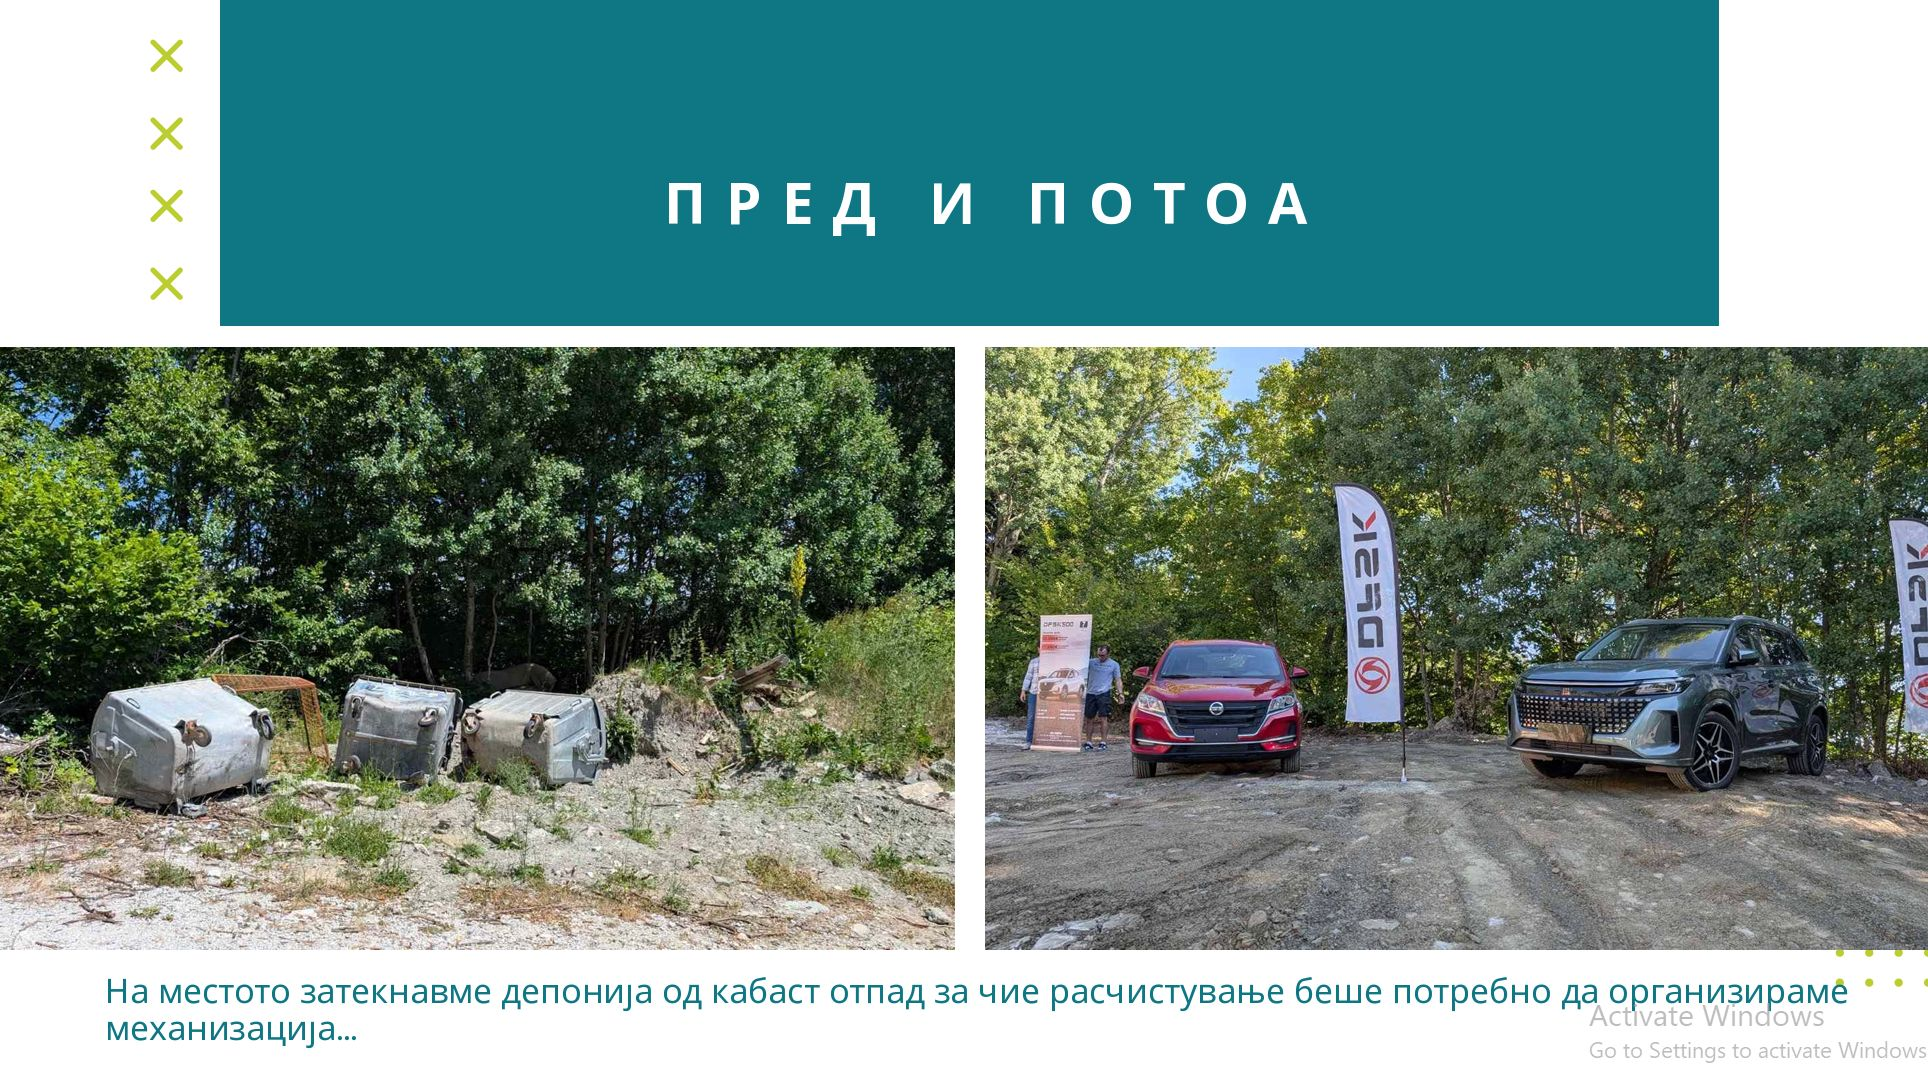
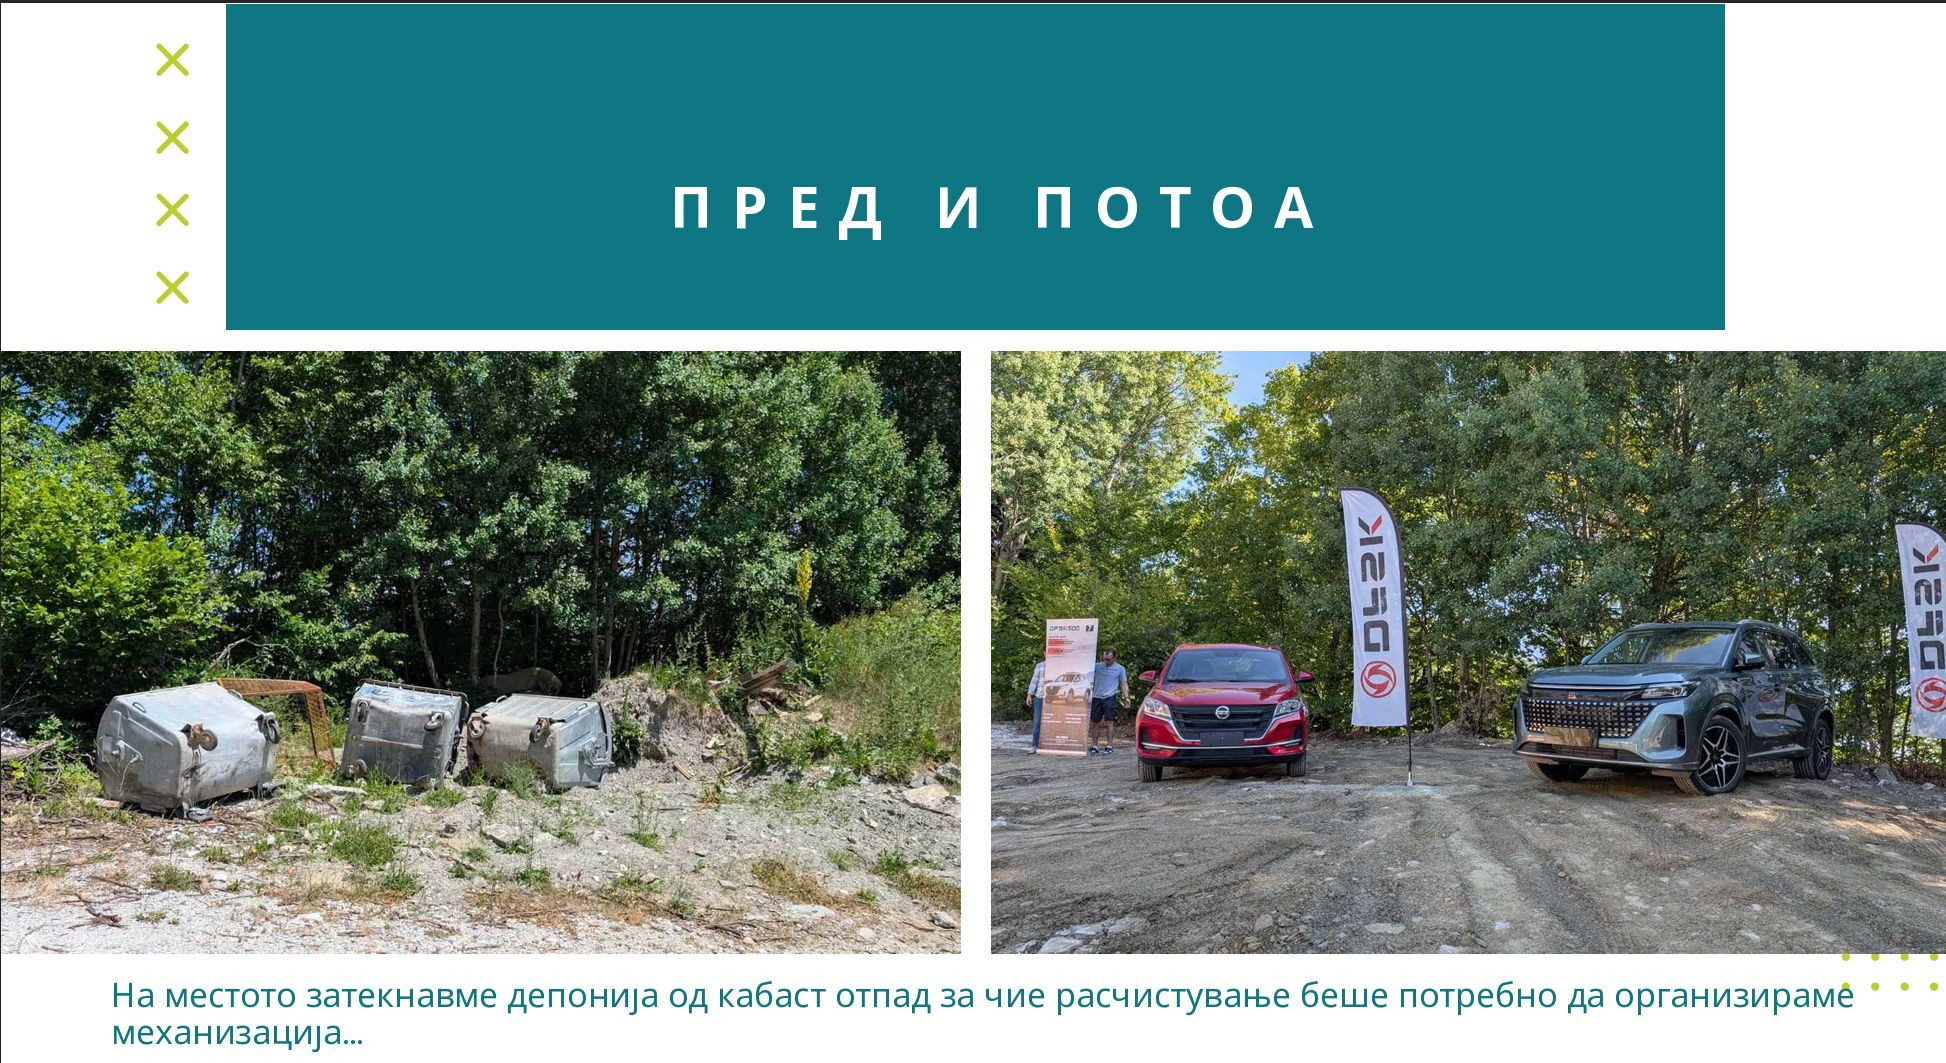
Replace photos, reorder MO25 tabs, move Предизвици to За нас
- Replace predizv_2 and predizv_4 with higher quality versions
- Make 'Предизвици пред почетокот' first/default tab in MO25
- Remove gallery from За нас page and replace with Предизвици section

diff --git a/mo25.html b/mo25.html
@@ -137,9 +137,9 @@
 <div style="background:#fff; padding: 48px 24px 0;">
   <div style="max-width:900px; margin:0 auto;">
     <div class="tabs">
-      <button class="tab-btn active" id="tbtn-zdrepka" onclick="showTab25('zdrepka')">Ждрепка</button>
+      <button class="tab-btn active" id="tbtn-predizv" onclick="showTab25('predizv')">Предизвици пред почетокот</button>
+      <button class="tab-btn" id="tbtn-zdrepka" onclick="showTab25('zdrepka')">Ждрепка</button>
       <button class="tab-btn" id="tbtn-galerija25" onclick="showTab25('galerija')">Галерија</button>
-      <button class="tab-btn" id="tbtn-predizv" onclick="showTab25('predizv')">Предизвици пред почетокот</button>
     </div>
   </div>
 </div>
@@ -148,7 +148,7 @@
   <div style="max-width:900px; margin:0 auto;">
 
     <!-- TAB 1 -->
-    <div class="tab-pane active" id="pane25-zdrepka">
+    <div class="tab-pane" id="pane25-zdrepka">
       <div class="ph-block">
         <div class="ph-icon">&#127922;</div>
         <div class="ph-title">Ждрепка &mdash; MO25</div>
@@ -164,7 +164,7 @@
       <div id="drive-gallery-mo25" style="min-height:400px; padding-top: 32px;"></div>
     </div>
 
-    <div class="tab-pane" id="pane25-predizv">
+    <div class="tab-pane active" id="pane25-predizv">
       <div class="predizv-section">
         <!-- Teal challenge box -->
         <div class="predizv-teal-box">